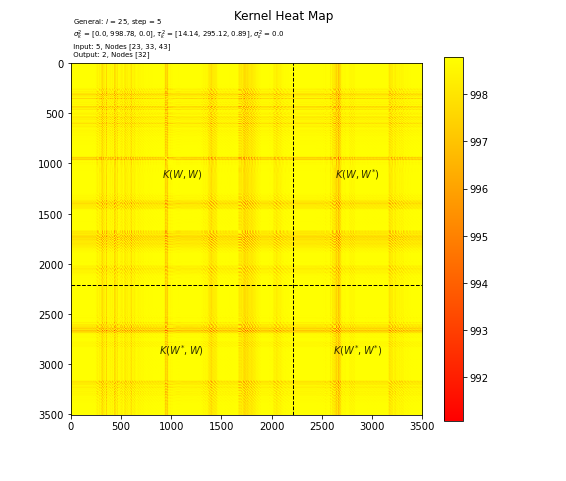
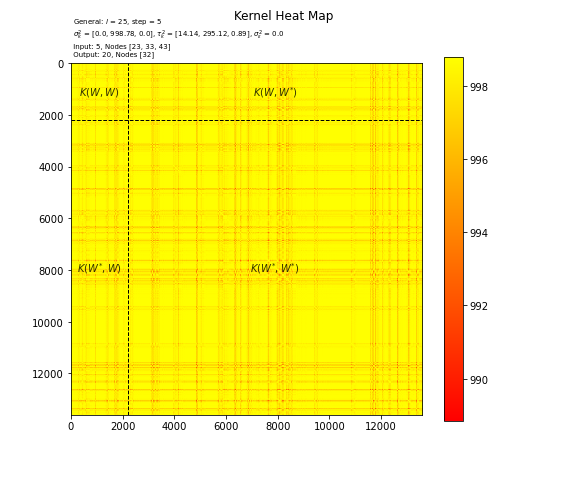
Generalization

diff --git a/OpenSeesPy_Model_2_Steel_Frame_2D_Python/Generalization.py b/OpenSeesPy_Model_2_Steel_Frame_2D_Python/Generalization.py
@@ -1,0 +1,167 @@
+# -*- coding: utf-8 -*-
+"""
+Created on Wed Nov  2 11:02:21 2022
+
+@author: s163761
+"""
+
+# -*- coding: utf-8 -*-
+"""
+Spyder Editor
+
+This is a temporary script file.
+"""
+
+# Import libraries
+import matplotlib.pyplot as plt
+import numpy as np
+import pandas as pd
+
+import warnings
+warnings.simplefilter("ignore")
+
+import sys
+import os
+
+# Import time-keeping
+import time
+
+# Create distance matrix faster
+from scipy.spatial import distance_matrix
+
+# For GPy
+import GPy
+GPy.plotting.change_plotting_library('matplotlib')
+
+import pylab as pb
+
+#%%
+def unique_cols(df):
+    a = df.to_numpy() # df.values (pandas<0.24)
+    return (a[0] == a).all(0)
+
+#%% Folder structure
+folder_data = r'output_files\Figures'
+
+
+#%% INPUTS
+prediction_node = 32
+
+num_in = 5
+num_out = 20
+
+df_Basis = pd.DataFrame(columns = ['SubVec_Len', 'SubVec_Step', 'IN_EQs', 'OUT_EQs', 'IN_Nodes', 'OUT_Nodes'])
+df_Error = pd.DataFrame(index = ['RMSE', 'SMSE', 'MAE', 'MAPE', 'TRAC'])
+
+#%%
+# r=root, d=directories, f = files
+for rdirs, dirs, files in os.walk(folder_data):
+    print('--------------------------------------------------------------------')
+    # print(rdirs)
+    # print(dirs)
+    # print(files)
+    
+    rdis_node_id = rdirs.find('node')+4
+    rdis_IN_id = rdirs.find('IN')+2
+    rdis_OUT_id = rdirs.find('OUT')+3
+    
+    if len(rdirs) > len(folder_data) and rdirs[rdis_node_id:rdis_node_id + len(str(prediction_node))] == str(prediction_node) and rdirs[rdis_IN_id:rdis_IN_id + len(str(num_in))] == str(num_in) and rdirs[rdis_OUT_id:rdis_OUT_id + len(str(num_out))] == str(num_out): # if subfolder
+        print(rdirs)
+        print(dirs)
+        print(files)
+    
+    
+        for file in files:
+            
+            if file.endswith('Basis.pkl'): 
+               
+                unpickled_df = pd.read_pickle(os.path.join(rdirs, file))
+                df_Basis = pd.concat([df_Basis, unpickled_df], axis=0, ignore_index=True)
+                
+            elif file.endswith('Error.pkl'): 
+                
+                unpickled_df = pd.read_pickle(os.path.join(rdirs, file))
+                unpickled_df['comb'] = unpickled_df.values.tolist()
+                df_Error = pd.concat([df_Error, unpickled_df['comb']], axis=1, ignore_index=True)
+                
+if unique_cols(df_Basis)[2] == True:
+    status_train ='All same training inputs'
+    train = 'Same'
+else:
+    status_train = 'Different training inputs'
+    train = 'Diff'
+
+#%% Dataframe
+
+
+# columns = ['Sensor_1', 'Sensor_2', 'Sensor_3', 'Sensor_4', 'Sensor_5','Sensor_6','Sensor_7']
+# index = ['RMSE', 'SMSE', 'TRAC']
+# df = pd.DataFrame(columns=columns, index=index)
+
+# for sensor in columns:
+#     for error in index:
+#         df[sensor][error] = np.random.normal(loc=100, scale=1, size=10)
+
+
+#%% 
+df = df_Error
+# Plot bloxplot
+fig, ax = plt.subplots(nrows=df.shape[0], ncols=1, figsize =(10, 10), sharex=True)
+
+
+plot_right = 1
+
+len_error = len(df.index.tolist())-1
+len_sensor = len(df.columns.tolist()) + plot_right
+
+error_id = 0
+for error in df.index.tolist():
+    cur_error = list(df.index)[error_id]
+    
+    Data = np.array([]).reshape(-1,1)
+    
+    sensor_id = 1
+    for sensor in df.columns.tolist():
+        cur_sensor = list(df.columns)[sensor_id-1]
+        
+        data = np.array(df[sensor][error]).reshape(-1,1)
+        
+        if error_id == len_error:
+            ax[error_id].boxplot(data,widths=0.5, positions=[sensor_id], labels=[f'{cur_sensor}'])        
+            ax[error_id].set_ylabel(f'{cur_error}')
+        else:
+            ax[error_id].boxplot(data,widths=0.5, positions=[sensor_id], labels=[' '])        
+            ax[error_id].set_ylabel(f'{cur_error}')
+        
+        ax[error_id].text(x=(sensor_id-.5)/len_sensor, y=1, s=f'({round(data.mean(),2)})', va='bottom', ha='center', transform = ax[error_id].transAxes)
+        #ax[error_id].set_title('subplot 1')
+        
+        Data = np.append(Data,data, axis=0)
+        
+        sensor_id+=1
+        
+    if plot_right == 1:    
+        # Mean plot        
+        ax[error_id].axvline(x = sensor_id-0.5, color = 'black', linestyle='dashed', linewidth=1.3, label = 'axvline - full height')
+        
+        if error_id == len_error:
+            ax[error_id].boxplot(Data,widths=0.5, positions=[sensor_id], labels=['All data'])
+        else:
+            ax[error_id].boxplot(Data,widths=0.5, positions=[sensor_id], labels=[' '])
+        
+        
+        ax[error_id].text(x=(sensor_id-.5)/len_sensor, y=1, s=f'({round(Data.mean(),2)})', va='bottom', ha='center', transform = ax[error_id].transAxes)
+    
+    
+    ax[error_id].grid(axis='y')
+    
+    error_id+=1
+    
+
+#ax[error_id-1].set_xlabel('XXX')
+fig.suptitle(f'Error for estimation of node {prediction_node} - {status_train} \n Input: {num_in}   Estimations: {num_out},  (mean)') #, fontsize=16)
+
+plt.xticks(rotation = 0) # Rotates X-Axis Ticks by 45-degrees
+#plt.tight_layout()
+
+plt.savefig(os.path.join(folder_data, f'GeneralError_train{train}_node{prediction_node}_IN{num_in}_OUT{num_out}.png'))

diff --git a/OpenSeesPy_Model_2_Steel_Frame_2D_Python/GPR_Model_GPy.py b/OpenSeesPy_Model_2_Steel_Frame_2D_Python/GPR_Model_GPy.py
@@ -60,7 +60,7 @@ folder_accs = r'output_files\ACCS'
 
 folder_structure = r'output_files'
 
-folder_hyperOpt = r'output_files\Kernel Learning\HyperParameter Optimization'
+folder_figure_save = r'output_files\Figures'
 
 #%% Load Structure
 Structure = pd.read_pickle( os.path.join(folder_structure, '00_Structure.pkl') )
@@ -147,11 +147,13 @@ def random_str_list(Index_Results, Train_procent = 0.07):
 
 #%% Input
 # Training data ---------------------------------------------------------------
+Train_data, Test_data = random_str_list(Index_Results, Train_procent = .015)
 
 # Indicator if total time n
-load_IDs = ['182',  '086',  '247',  '149',  '052']#,  '094',  '250',  '138',  
-            # '156',  '251',  '248',  '073',  '163',  '025',  '258',  '249',  
-            # '130',  '098',  '040',  '078',  '297',  '012']
+load_IDs = Train_data # 0.015 --> 5
+#load_IDs = ['182',  '086',  '247',  '149',  '052']#,  '094',  '250',  '138',  
+#             # '156',  '251',  '248',  '073',  '163',  '025',  '258',  '249',  
+#             # '130',  '098',  '040',  '078',  '297',  '012']
 
 # Training - X                                                                                 
 load_Nodes_X = [23, 33, 43] # Indicator of dimension d
@@ -167,7 +169,8 @@ Train_par=[load_IDs, load_Nodes_X, load_Nodes_Y]
 # Testing Data ----------------------------------------------------------------
 
 # Indicator if total time m
-load_IDss = ['292', '023']
+load_IDss = Test_data[:20] # 20
+#load_IDss = ['292', '023']
    
 # Testing - X*  (Same as X)                                                                             
 load_Nodes_Xs = load_Nodes_X
@@ -222,7 +225,10 @@ optimize_model = 1
 global_tic_0 = time.time()
 
 start_time = time.strftime('%Y-%m-%d %H:%M:%S', time.localtime(global_tic_0))
+start_time_name = time.strftime('%Y-%m-%d_%H-%M-%S', time.localtime(global_tic_0))
 print(f'Start time: {start_time}')
+
+
 
 #%% Understanding inputs
 
@@ -248,6 +254,24 @@ load_Nodes_Xs = Test_par[1]
 load_Nodes_Ys = Test_par[2]
 
 
+#%% Create Sub-folder for plots
+sub_folder_plots = f'Pred_node{load_Nodes_Ys[0]}_IN{len(load_IDs)}_OUT{len(load_IDss)}_Time{start_time_name}'
+  
+# Create applicabe sub-folder
+os.mkdir(os.path.join(folder_figure_save, sub_folder_plots))
+
+#%%
+# Create bassi for error estimations
+df_error_basis = pd.DataFrame(columns = ['SubVec_Len', 'SubVec_Step', 'IN_EQs', 'OUT_EQs', 'IN_Nodes', 'OUT_Nodes'])
+df_error_basis['SubVec_Len'] = [length_subvec]
+df_error_basis['SubVec_Step'] = [length_step] #--------------------------------
+df_error_basis['IN_EQs'] = [load_IDs]
+df_error_basis['OUT_EQs'] = [load_IDss]
+df_error_basis['IN_Nodes'] = [load_Nodes_X]
+df_error_basis['OUT_Nodes'] = [load_Nodes_Ys]
+
+# General Structure
+df_error_basis.to_pickle(os.path.join(folder_figure_save, sub_folder_plots, '00_Basis.pkl'))
 
 #%% Function - Create w vectors
 def load_to_w(load_IDs, load_Nodes_X, load_Nodes_Y, len_sub_vector=100, step_size=50):
@@ -601,7 +625,8 @@ if True:
                  x=0, y=1, ha='left', va='bottom', fontsize=7)
     #plt.show()
     
-    plt.savefig(os.path.join(folder_hyperOpt,f'Kernel_l{length_subvec}_step{length_step}_sigma{sigma2_ks}_tau{tau2_ks}_error{sigma2_error}.png'))
+    plt.savefig(os.path.join(folder_figure_save,sub_folder_plots,
+                             f'KernelOpt_l{length_subvec}_step{length_step}_time{start_time_name}.png'))
     #plt.close()
     
 
@@ -782,10 +807,16 @@ if True:
         
         temp += len(x_temp)
         
-        plt.savefig(os.path.join(folder_hyperOpt,f'Predict_ACC_{int_to_str3([idx])[0]}_l{length_subvec}_step{length_step}_sigma{sigma2_ks}_tau{tau2_ks}_error{sigma2_error}.png'))
+        plt.savefig(os.path.join(folder_figure_save,sub_folder_plots,
+                                 f'Predict_ACC_EQ{int_to_str3([idx])[0]}_l{length_subvec}_step{length_step}_node{load_Nodes_Ys[0]}_time{start_time_name}.png'))
         #plt.close()
 
 #return df_error
+#%% Save df_error
+#df.to_pickle(output_directory + "/00_Index_Results.pkl") 
+#unpickled_df = pd.read_pickle("./dummy.pkl")
+
+df_error.to_pickle( os.path.join(folder_figure_save,sub_folder_plots, '00_Error.pkl')  )
     
 sys.exit()
 #%% INPUT

diff --git a/OpenSeesPy_Model_2_Steel_Frame_2D_Python/00_Spectograms.py b/OpenSeesPy_Model_2_Steel_Frame_2D_Python/00_Spectograms.py
@@ -91,7 +91,7 @@ for rdirs, dirs, files in os.walk(folder_accs):
                     
                    
                 # Spectogram 1    
-                if False:
+                if True:
                     f, t, Sxx = signal.spectrogram(x, fs,  mode='magnitude')
                     plt.figure()
                     im = plt.pcolormesh(t, f, Sxx, shading='gouraud')
@@ -105,7 +105,7 @@ for rdirs, dirs, files in os.walk(folder_accs):
                     plt.show()
                 
                 # Spectogram 2
-                if False:
+                if True:
                     fig = plt.figure()
                     ax1 = fig.add_axes([0.1, 0.77, 0.7, 0.2]) #[left bottom width height]
                     ax2 = fig.add_axes([0.1, 0.1, 0.7, 0.60], sharex=ax1)
